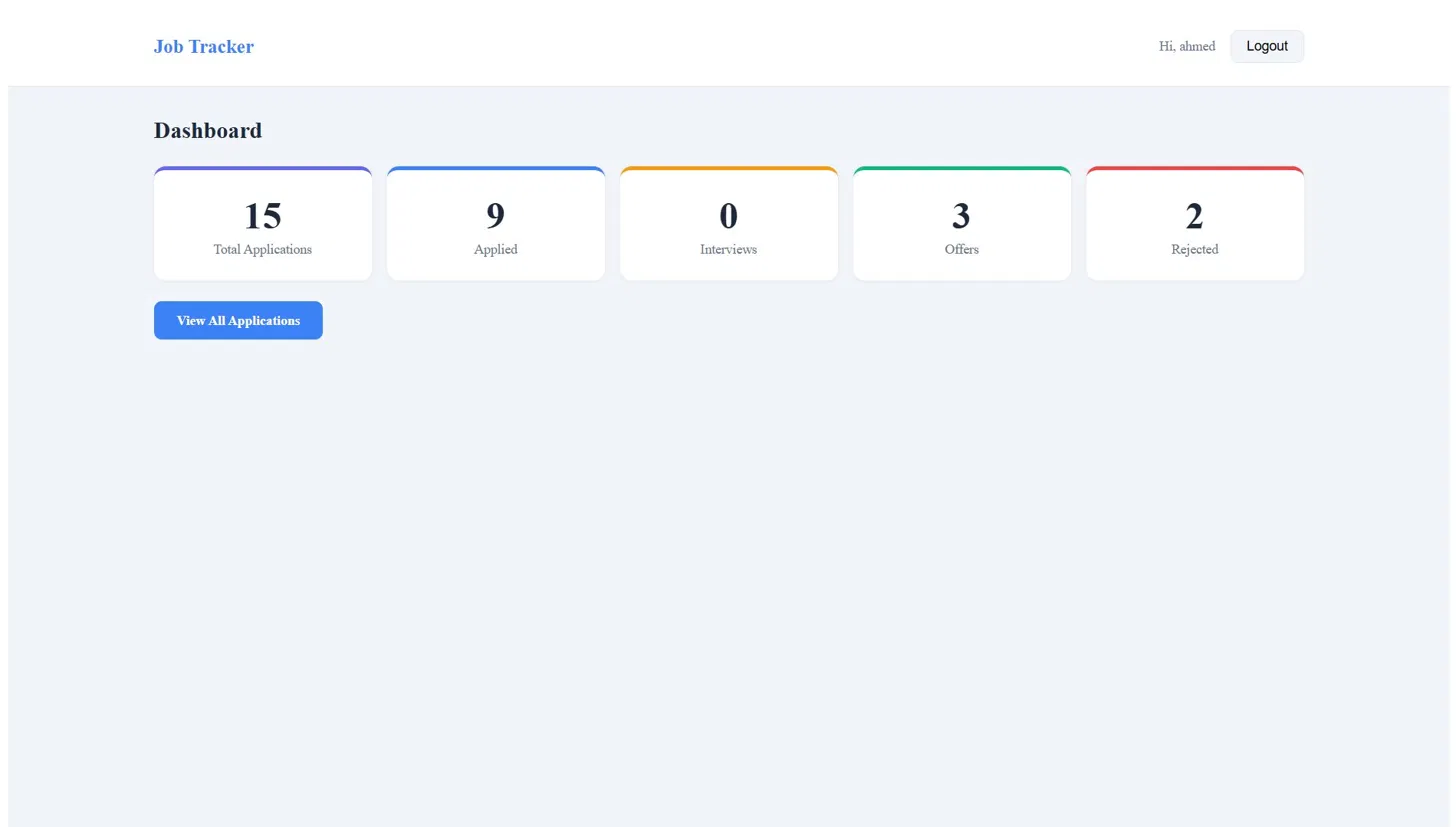
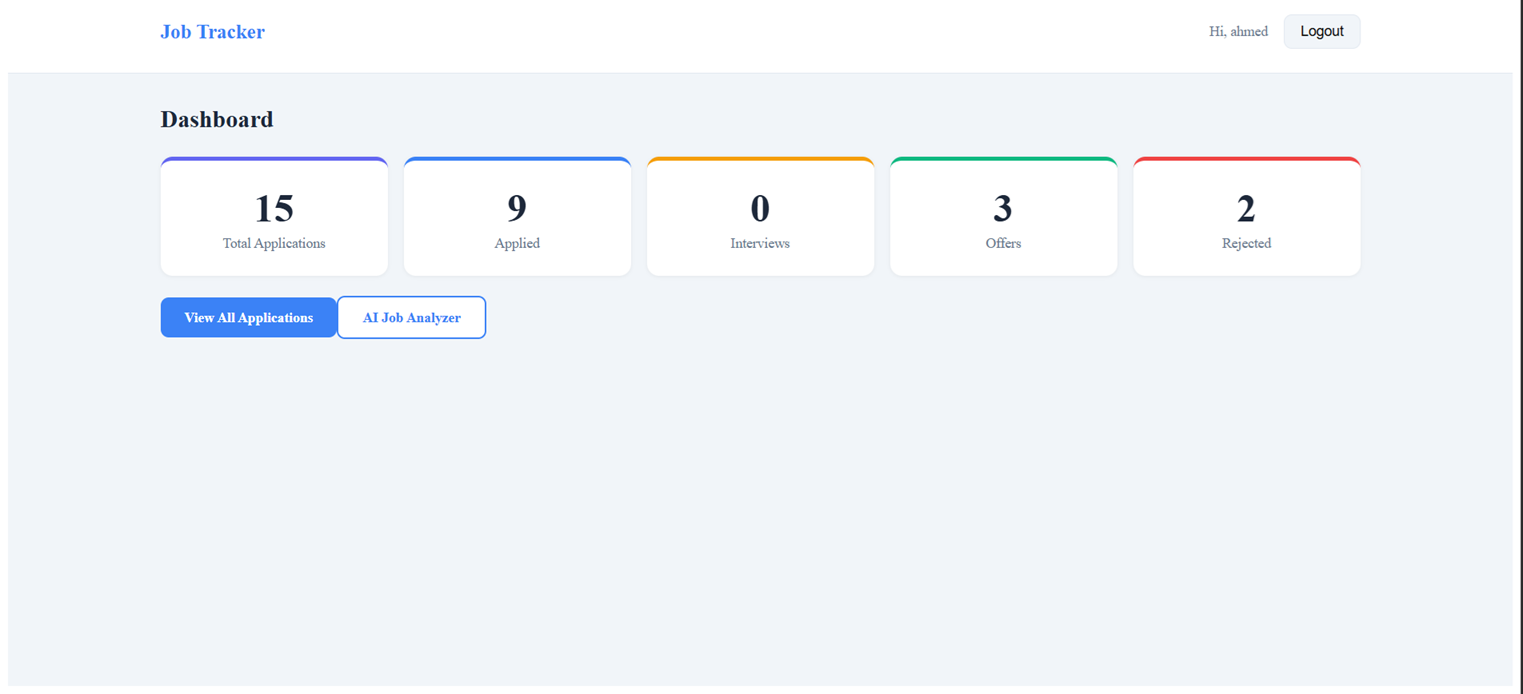
docs: update README with AI feature and screenshot

diff --git a/README.md b/README.md
@@ -37,6 +37,7 @@ A full-stack job application tracker to manage your job search from application 
 - **JWT Authentication** — Secure per-user data with token-based auth
 - **REST API** — Clean, documented endpoints with validation
 - **Monitoring** — Prometheus metrics + Grafana dashboards
+- **AI Job Match Analyzer** — Upload your CV and a job description to get an AI-powered match score, cover letter, missing skills analysis, and interview tips powered by Google Gemini
 
 ---
 
@@ -57,6 +58,9 @@ A full-stack job application tracker to manage your job search from application 
 ### Prometheus Monitoring
 ![Prometheus](screenshots/prometheus.png)
 
+### AI Job Match Analyzer
+![AI Analyzer](screenshots/ai-analyser_1.png)
+![AI Analyzer](screenshots/ai-analyser_2.png)
 ---
 
 ## Architecture
@@ -95,6 +99,7 @@ A full-stack job application tracker to manage your job search from application 
 | Infrastructure | Docker, Docker Compose |
 | CI/CD | GitHub Actions |
 | Testing | Jest (unit tests) |
+| AI | Google Gemini API |
 
 ---
 
@@ -271,6 +276,8 @@ job-tracker/
 - [ ] E2E tests with Playwright
 - [ ] Email notifications for follow-up dates
 - [ ] Export applications to CSV
+- [ ] Save AI analysis results directly as a new application
+- [ ] Support multiple CV formats (DOCX, TXT)
 
 ---
 
